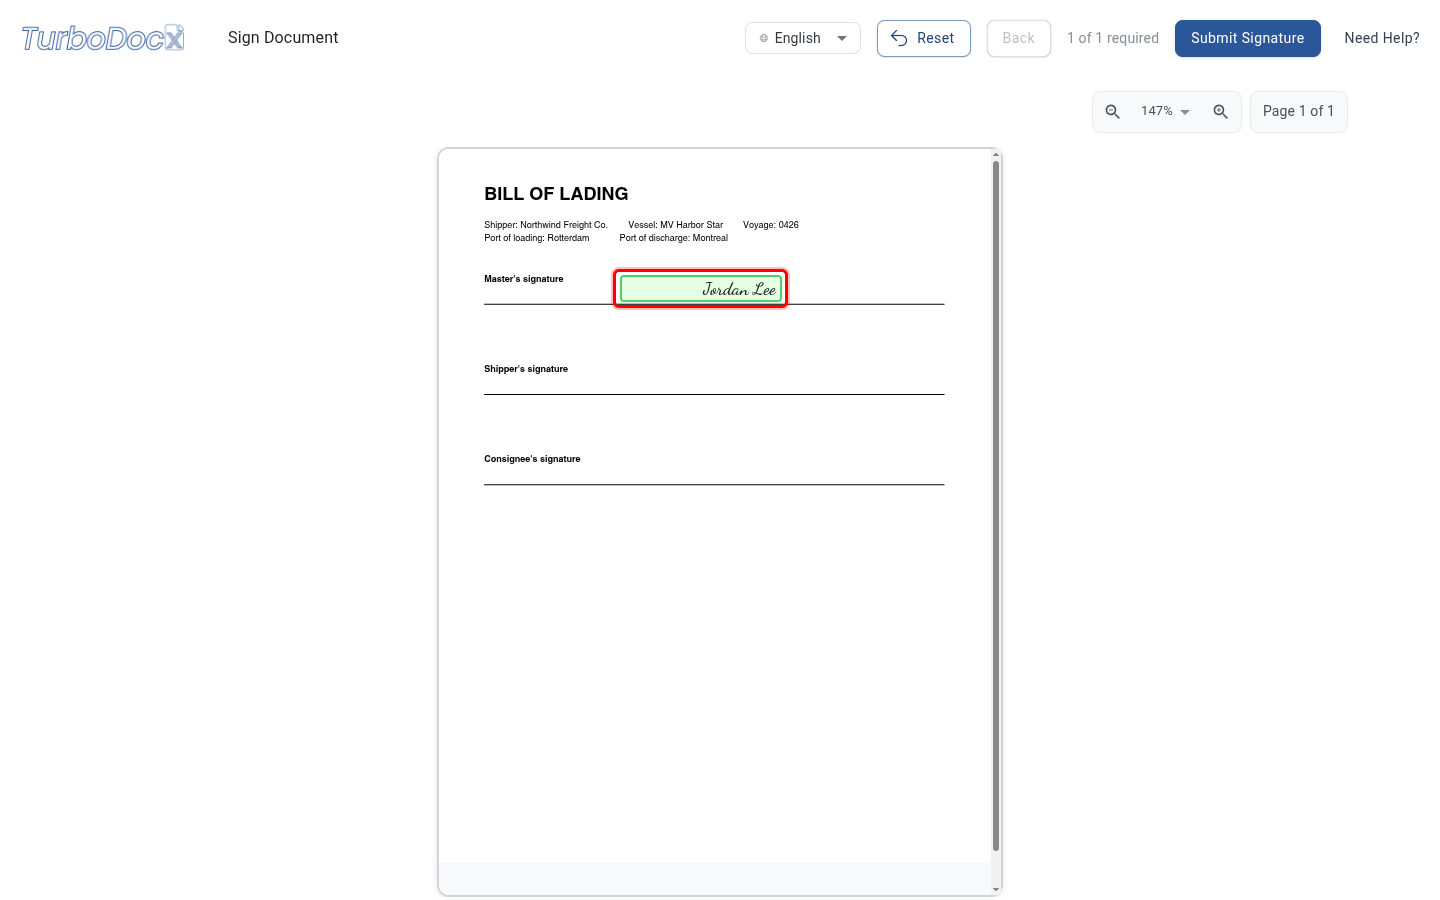
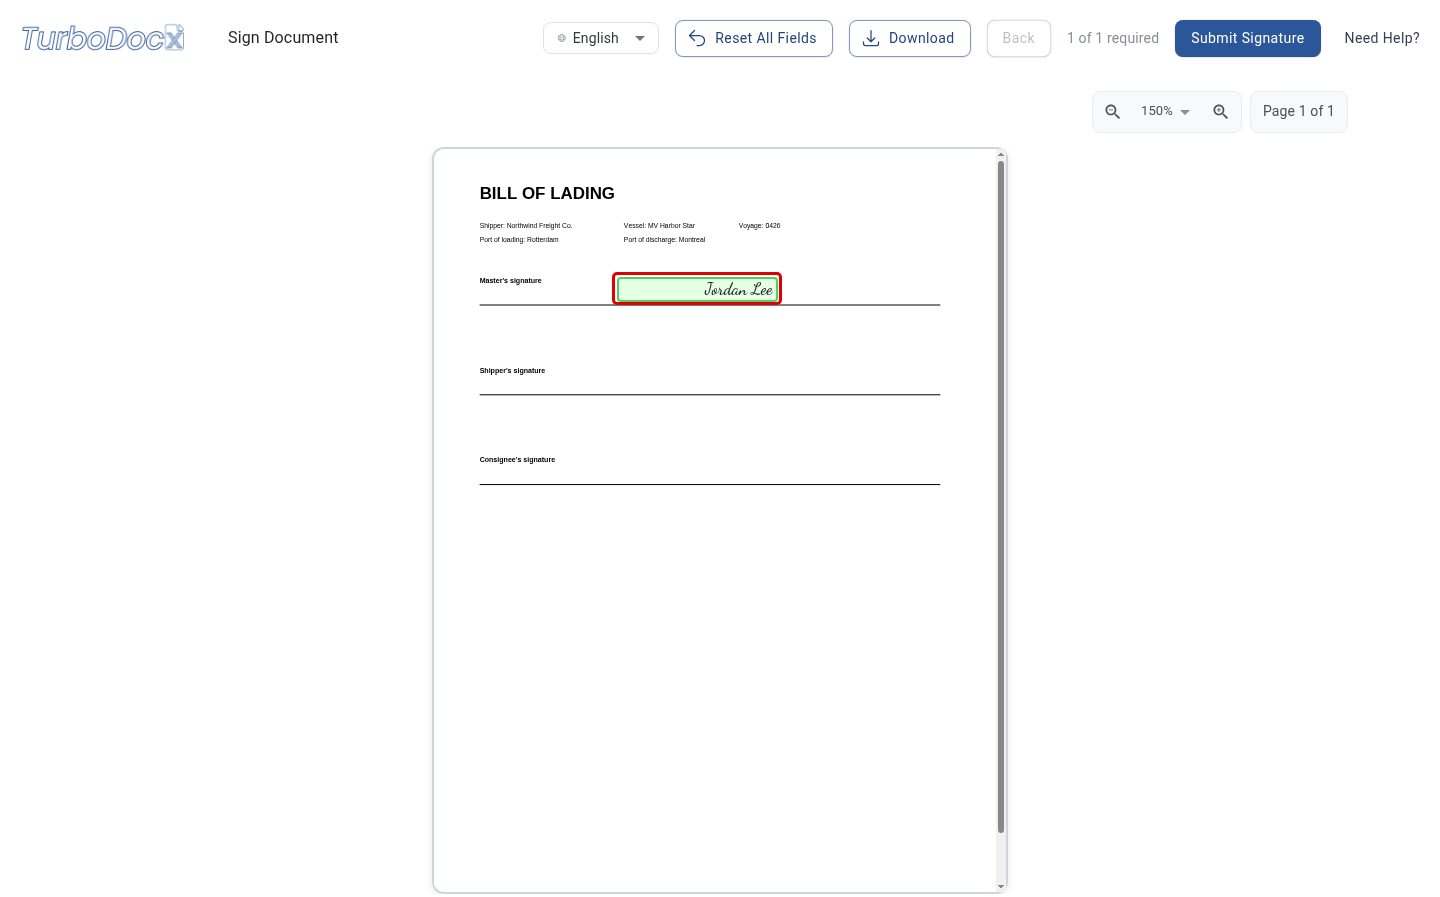
docs(turbosign): document optional signer fields (#196)
* docs(turbosign): document optional signer fields

Document the required field flag for API callers (rules, the three new
400 codes, behavior change) and the Required setting in the field editor
for senders, plus what the signer sees. Add a signature field to the
conditional field examples so each recipient keeps a required field.

* docs(turbosign): add optional field screenshots

* docs(turbosign): keep bulk optional field note shape-neutral

* docs(turbosign): recapture optional field screenshots on a clean document

* docs(turbosign): optional date/checkbox still don't count as the required field

* docs(turbosign): match optional fields to the current signing page

- The signing page now marks an empty optional field with a small "Optional"
  tag on its top-right corner instead of "Text (Optional)"; locked fields
  (read-only or still locked by a rule) never show it. Signers can empty a
  filled optional field with "Clear field".
- API: null means not set, isReadonly and required:false can be combined.
- Guide: locking a field hides its Required setting.
- Conditional Fields: an unlock-locked field is only enforced once unlocked.
- Recaptured the signer screenshots for the new tag and the renamed
  "Reset All Fields" button.

---------

diff --git a/docs/TurboSign/API Signatures.md b/docs/TurboSign/API Signatures.md
@@ -1196,8 +1196,8 @@ The `metadata` object allows you to customize the recipient's UI appearance:
 | --------------- | ------- | -------- | -------------------------------------------------------------- |
 | recipientEmail  | String  | Yes      | Email address of recipient (matches email in recipients array) |
 | type            | String  | Yes      | Field type (see table above)                                   |
-| required        | Boolean | No       | Whether field must be completed (default: true)                |
-| defaultValue    | String  | No       | Pre-filled value for the field (max 600 characters)            |
+| required        | Boolean | No       | Whether the signer must fill the field (default: `true`). Send `false` to let the signer leave it blank and still finish. Must be a JSON boolean, not the string `"false"`; `null` is treated as not set (required). Cannot be `false` on `signature` or `initial` fields. See [Optional Fields](#optional-fields) |
+| defaultValue    | String  | No       | Pre-filled value for the field (max 600 characters). This is a real value that is submitted with the signature, not placeholder hint text |
 | isReadonly      | Boolean | No       | Makes field non-editable (for prefilled values)                |
 | backgroundColor | String  | No       | Custom background color (hex or rgba)                          |
 | metadata        | Object  | No       | Optional field metadata. Carries `fieldKey` (on a controlling checkbox) and/or a `conditional` rule (on a dependent field). See [Conditional (IF/THEN) Fields](#conditional-if-then-fields). |
@@ -1226,6 +1226,72 @@ The `metadata` object allows you to customize the recipient's UI appearance:
 | pageWidth  | Number | No       | Total page width in pixels (optional, for responsive positioning)  |
 | pageHeight | Number | No       | Total page height in pixels (optional, for responsive positioning) |
 | alignment  | String | No       | Where the signer's entry sits: `"left"`, `"center"` or `"right"`. See [Field Alignment](#field-alignment) |
+
+### Optional Fields {#optional-fields}
+
+Every field is required by default: the signer cannot finish until it is filled. Set
+`required: false` on a field to make it optional. The signer can then leave it blank and still
+complete the document, and a blank optional field stays empty on the signed PDF.
+
+```javascript
+const fields = JSON.stringify([
+  {
+    recipientEmail: "john.smith@company.com",
+    type: "signature",
+    template: { anchor: "{Signature1}", placement: "replace", size: { width: 200, height: 80 } },
+  },
+  // Optional: the signer may leave this blank
+  {
+    recipientEmail: "john.smith@company.com",
+    type: "text",
+    template: { anchor: "{Notes}", placement: "replace", size: { width: 300, height: 30 } },
+    required: false,
+  },
+]);
+formData.append("fields", fields);
+```
+
+Rules:
+
+- **Signature and initial fields are always required.** Sending `required: false` on a
+  `signature` or `initial` field is rejected with `400 OptionalNotSupported`.
+- **`required` must be a JSON boolean.** Any other value, including the string `"false"`, is
+  rejected with `400 InvalidFieldRequired`. Omitting `required`, or sending `null`, is the same as
+  `true`.
+- **Each recipient needs at least one required, editable field.** A field counts when it is not
+  `isReadonly` and its `required` is not `false`. A signature field always counts. A recipient
+  whose fields are all optional or read-only is rejected with
+  `400 NoEditableFieldsForRecipient`.
+- **Date and checkbox fields are always filled on the signing page**, so making them optional does
+  not change what the signer sees. It does change one check: an optional date or checkbox does not
+  count as the recipient's required field, so a recipient whose only other fields are optional is
+  still rejected with `400 NoEditableFieldsForRecipient`.
+- **`defaultValue` is a real value, not hint text.** If you put instructions such as "Explain any
+  changes here" in `defaultValue`, that text is submitted and lands on the signed PDF unless the
+  signer clears it. Leave `defaultValue` empty on an optional field you want to stay blank.
+- **`isReadonly` and `required: false` can be combined.** A read-only field is pre-filled and the
+  signer can't change it, so it never holds up signing, whether it is required or not. A field
+  that a conditional rule still hides or locks never holds up signing either.
+
+On the signing page, an empty optional field keeps its normal label (for example "Text") and shows
+a small **Optional** tag on its top-right corner. The "N of M required" progress counter leaves
+optional fields out. A locked field never shows the tag: that covers a read-only field and a field
+that a conditional `unlock` rule still holds locked, and the tag appears once the rule unlocks it.
+A locked field shows its lock icon instead when your organization draws locked fields as grey
+boxes (see [Locked Fields Rendering](/docs/TurboSign/How%20to%20Configure%20Signature%20Appearance)). If the
+signer fills in an optional field and changes their mind, they can open it and click **Clear field**.
+
+`required` works the same way on prepare-for-signing, prepare-for-review, and in each
+`documents[].fields` array of the [Bulk API](/docs/TurboSign/API%20Bulk%20Signatures).
+
+:::warning Behavior change for existing integrations
+Earlier, the single-step endpoints accepted `required` but ignored it, so every field was treated
+as required. `required: false` is now honored. If your integration already sends
+`required: false`, those fields become optional for the signer. Requests that send
+`required: false` on a signature or initial field, send a non-boolean `required`, or leave a
+recipient with no required editable field now return `400` (`OptionalNotSupported`,
+`InvalidFieldRequired`, or `NoEditableFieldsForRecipient`).
+:::
 
 ### Conditional (IF/THEN) Fields {#conditional-if-then-fields}
 
@@ -1274,6 +1340,16 @@ box is checked.
 
 ```javascript
 const fields = JSON.stringify([
+  // The recipient's signature. Every recipient needs at least one required field.
+  {
+    recipientEmail: "john.smith@company.com",
+    type: "signature",
+    page: 1,
+    x: 100,
+    y: 600,
+    width: 200,
+    height: 80,
+  },
   // Controlling checkbox — gets a stable fieldKey
   {
     recipientEmail: "john.smith@company.com",
@@ -1345,6 +1421,7 @@ dependent field exactly matches the `fieldKey` of an existing checkbox.
 - Can be text-based or drawn
 - Cryptographically signed and hashed for legal validity
 - Cannot carry a `defaultValue` — sending one is rejected
+- Always required: `required: false` is rejected with `400 OptionalNotSupported`
 
 **date**
 
@@ -1354,6 +1431,7 @@ dependent field exactly matches the `fieldKey` of an existing checkbox.
 - To pin a specific date instead, set `defaultValue` to that date in `MM/DD/YYYY` format (e.g. `"12/31/2026"`). Omit `defaultValue` (or send `""`) to keep the signing-date behavior
 - `defaultValue` must be a **real calendar date** in `MM/DD/YYYY` — a non-existent date such as `"02/31/2026"` (or any malformed value) is rejected with `400 InvalidDateValue`. There is no `"today"` keyword
 - A date field cannot be `isReadonly` — a pinned date still shows to the signer, it is not locked
+- Always filled on the signing page, so `required: false` does not change what the signer sees, but an optional date does not count as the recipient's required field
 
 **full_name, first_name, last_name, email**
 
@@ -1365,6 +1443,7 @@ dependent field exactly matches the `fieldKey` of an existing checkbox.
 
 - Single-line text input by default
 - Supports defaultValue for prefilled content
+- Set `required: false` to let the signer leave it blank (see [Optional Fields](#optional-fields))
 - Use for titles, company names, custom fields
 
 **checkbox**
@@ -1372,6 +1451,7 @@ dependent field exactly matches the `fieldKey` of an existing checkbox.
 - Boolean true/false value
 - Useful for acknowledgments and consent
 - Can have label text next to checkbox
+- Always has a value (checked or unchecked) when the signer finishes, so `required: false` does not change what the signer sees, but an optional checkbox does not count as the recipient's required field
 
 ## Field Positioning Methods
 
@@ -1767,6 +1847,28 @@ formData.Add(new StringContent(recipients), "recipients");
 [{ recipientEmail: "john.smith@company.com", ... }]  // ✅ Correct
 [{ recipientEmail: "John.Smith@company.com", ... }]  // ❌ Wrong (case mismatch)
 ```
+
+#### Optional Field Errors
+
+**Symptoms**: 400 Bad Request with code `OptionalNotSupported`, `InvalidFieldRequired`, or
+`NoEditableFieldsForRecipient`
+
+| Code                           | Cause                                                                                   | Fix                                                                  |
+| ------------------------------ | --------------------------------------------------------------------------------------- | -------------------------------------------------------------------- |
+| `OptionalNotSupported`         | `required: false` on a `signature` or `initial` field                                    | Remove `required` from that field, or set it to `true`               |
+| `InvalidFieldRequired`         | `required` is not a boolean or `null` (for example the string `"false"`)                 | Send a JSON boolean: `true` or `false`                               |
+| `NoEditableFieldsForRecipient` | A recipient has only optional or read-only fields                                        | Give that recipient at least one required, editable field, such as a signature |
+
+**Example Error Response**:
+
+```json
+{
+  "error": "Field 1: SIGNATURE and INITIAL field types cannot be optional. Field type \"signature\" must be completed by the signer.",
+  "code": "OptionalNotSupported"
+}
+```
+
+See [Optional Fields](#optional-fields) for the full rules.
 
 #### Authentication Failures
 

diff --git a/docs/TurboSign/Setting up TurboSign.md b/docs/TurboSign/Setting up TurboSign.md
@@ -295,6 +295,30 @@ The signer sees their signature placed the same way, and the signed PDF matches 
 
 <br/>
 
+### Making a Field Optional
+
+Every field you place is required by default: the signer can't finish until it's filled in. To let the signer skip a field, such as an optional "Notes" box, turn off **Required** for that field.
+
+1. **Click the field** on the document to select it.
+2. In the panel on the right, find **Required**.
+3. **Uncheck "Signer must fill this field".** The signer can now leave it blank and still finish.
+
+![The field settings panel with the Required setting and its "Signer must fill this field" checkbox highlighted](/img/turbosign/optional-fields/01-required-setting.png)
+
+When the signer opens the document, an empty optional field keeps its usual label and shows a small **Optional** tag on its top-right corner. The "N of M required" counter only counts required fields, so the signer can submit once those are done. If the signer fills in an optional field and changes their mind, they can open it again and click **Clear field**.
+
+![The signing page with an empty text field carrying an "Optional" tag on its top-right corner and the counter reading "0 of 1 required"](/img/turbosign/optional-fields/02-signer-optional-label.png)
+
+:::note Good to know
+- **Signature, Initials, Date, and Checkbox fields don't have a Required setting.** Signatures and initials are always required. Date and checkbox fields are always filled in on the signing page.
+- **Locked fields don't have a Required setting either.** When you check **Make field read-only** under **Lock Field**, the Required setting disappears: a locked field is pre-filled and the signer can't change it, so it never holds up signing, and signers never see the Optional tag on it.
+- **A blank optional field stays empty** on the signed PDF.
+- **A default value is a real answer, not a hint.** If you type instructions into an optional field's default value, that text ends up on the signed PDF unless the signer clears it. Leave the default value empty if the field should stay blank.
+- **Each recipient needs at least one required field they can fill out**, such as a signature. If a recipient only has optional or read-only fields, the editor shows "Some recipients have no required editable fields" and you can't send until you fix it.
+:::
+
+<br/>
+
 ## Step 7.5: Setting Default Values (Optional)
 
 Want to save your recipients time by pre-filling some information? TurboSign lets you set default values that will automatically appear in fields when recipients open the document. This is especially useful for common information you already know about your signers.
@@ -493,7 +517,7 @@ After clicking "Send Document":
 ## Troubleshooting Common Issues
 
 ### "The Send Button is Disabled"
-**Solution:** Make sure you've placed at least one signature field for each recipient. The Send button appears only when your document is ready.
+**Solution:** Make sure you've placed at least one signature field for each recipient. The Send button appears only when your document is ready. If you see "Some recipients have no required editable fields", give that recipient at least one required field, or turn **Required** back on for one of their fields (see [Making a Field Optional](#making-a-field-optional)).
 
 ### "Recipient Says They Can't Haven't Received the Email"
 **Solution:** Check that you used the correct email address and that the signing link hasn't expired. You can resend the invitation from your dashboard.

diff --git a/docs/TurboSign/API Bulk Signatures.md b/docs/TurboSign/API Bulk Signatures.md
@@ -280,6 +280,16 @@ within the same job's `fields` array. See
 `show` vs. `unlock` behavior, and the `InvalidConditionalRule` / fail-open rules.
 :::
 
+:::note Optional fields are supported
+Set `required: false` on a field in `documents[].fields` to let the signer leave it blank. The
+same rules as the single-step API apply: `signature` and `initial` fields cannot be optional,
+`required` must be a JSON boolean (`null` counts as not set, so the field stays required), and each recipient needs at least one required, editable
+field. A document that breaks a rule fails the batch with `BulkValidationFailed`, and the
+failing document is listed in the error details with its specific code (`OptionalNotSupported`,
+`InvalidFieldRequired`, or `NoEditableFieldsForRecipient`). See
+[Optional Fields](/docs/TurboSign/API%20Signatures#optional-fields) for details.
+:::
+
 ### Response (Success)
 
 ```json
@@ -623,6 +633,9 @@ Common error codes you may encounter:
 | `BatchNotFound`        | batchId doesn't exist                       | Check batch ID                          |
 | `BatchNotCancellable`  | Batch already completed                     | Cannot cancel completed batches         |
 | `InsufficientCredits`  | Not enough credits for batch                | Add credits to organization             |
+| `OptionalNotSupported` | Per document, inside `BulkValidationFailed`: `required: false` on a signature or initial field | Remove `required` or set it to `true` |
+| `InvalidFieldRequired` | Per document, inside `BulkValidationFailed`: `required` is not a boolean or `null` (e.g. `"false"`) | Send `true` or `false` as a JSON boolean |
+| `NoEditableFieldsForRecipient` | Per document, inside `BulkValidationFailed`: a recipient has only optional or read-only fields | Give the recipient a required, editable field such as a signature |
 
 ---
 

diff --git a/docs/TurboSign/Conditional Fields.md b/docs/TurboSign/Conditional Fields.md
@@ -145,6 +145,16 @@ explain"** text field appear.
 
 ```javascript
 const fields = JSON.stringify([
+  // The recipient's signature. Every recipient needs at least one required field.
+  {
+    recipientEmail: "reviewer@acme.com",
+    type: "signature",
+    page: 1,
+    x: 100,
+    y: 600,
+    width: 200,
+    height: 80,
+  },
   // 1) Controlling checkbox — gets a stable fieldKey
   {
     recipientEmail: "reviewer@acme.com",
@@ -192,6 +202,16 @@ until they check **"Override default amount"**.
 
 ```javascript
 const fields = JSON.stringify([
+  // The recipient's signature. Every recipient needs at least one required field.
+  {
+    recipientEmail: "signer@acme.com",
+    type: "signature",
+    page: 1,
+    x: 100,
+    y: 600,
+    width: 200,
+    height: 80,
+  },
   // Controlling checkbox
   {
     recipientEmail: "signer@acme.com",
@@ -281,7 +301,10 @@ existing checkbox's `fieldKey`.
 - Keep `fieldKey` values short, stable, and unique within a document (`request_changes`,
   `override_amount`, `consent`).
 - A dependent field that is `required: true` but hidden via `action: "show"` is only enforced
-  once it becomes visible — don't rely on a hidden required field to block completion.
+  once it becomes visible — don't rely on a hidden required field to block completion. The same
+  goes for a field held read-only by `action: "unlock"`: it is only enforced once the box unlocks it.
+- Set `required: false` on a dependent field if the signer may leave it blank even after it
+  appears or unlocks. See [Optional Fields](/docs/TurboSign/API%20Signatures#optional-fields).
 - The controlling checkbox and its dependent fields should generally belong to the **same
   recipient** so the same signer both toggles the box and fills the revealed field.
 
